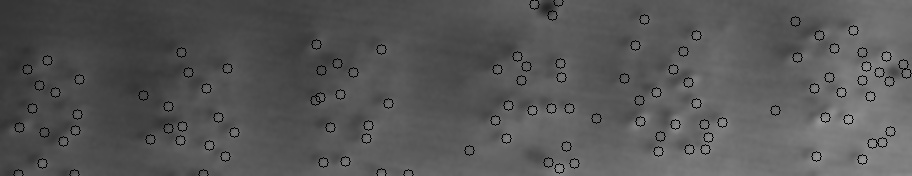
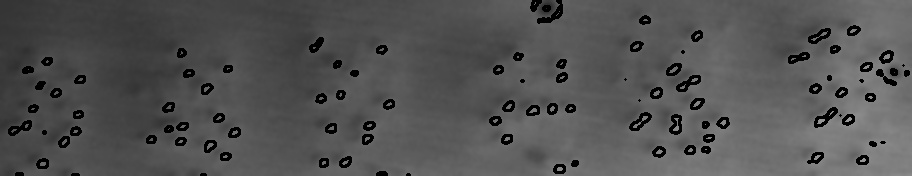
consolidated bump and crater defect logic into one file, test.py lol

diff --git a/project1/test.py b/project1/test.py
@@ -9,7 +9,6 @@ import numpy as np
 import matplotlib.pyplot as plt
 import time
 
-from crater import crater_centroids
 
 # load image into grayscale form
 img = 'defects.png'
@@ -24,19 +23,36 @@ gray_enhanced = clahe.apply(gray)
 blurred = cv2.GaussianBlur(gray_enhanced, (7, 7), 0)
 
 
+''' LIGHT AREA BUMP DEFECTS '''
 # playing around with these values to tune results
-C = -6
+C = -5
+BLOCK_SIZE = 27
+
+# binarize image
+bump_thresh = cv2.adaptiveThreshold(blurred, 255, cv2.ADAPTIVE_THRESH_GAUSSIAN_C, cv2.THRESH_BINARY, BLOCK_SIZE, C)
+
+# find contours
+bump_contours, _ = cv2.findContours(bump_thresh, cv2.RETR_EXTERNAL, cv2.CHAIN_APPROX_SIMPLE)
+# print(contours)
+
+
+''' DARK AREA CRATER DEFECTS '''
+# playing around with these values to tune results
+C = 16
 BLOCK_SIZE = 25
 
 # binarize image
-thresh = cv2.adaptiveThreshold(blurred, 255, cv2.ADAPTIVE_THRESH_GAUSSIAN_C, cv2.THRESH_BINARY, BLOCK_SIZE, C)
+crater_thresh = cv2.adaptiveThreshold(blurred, 255, cv2.ADAPTIVE_THRESH_GAUSSIAN_C, cv2.THRESH_BINARY_INV, BLOCK_SIZE, C)
 
 # find contours
-contours, _ = cv2.findContours(thresh, cv2.RETR_EXTERNAL, cv2.CHAIN_APPROX_SIMPLE)
+crater_contours, _ = cv2.findContours(crater_thresh, cv2.RETR_EXTERNAL, cv2.CHAIN_APPROX_SIMPLE)
 # print(contours)
+
 
 # record centroids of each defect
 centroids = []
+
+contours = bump_contours + crater_contours
 
 # plot defects on original image
 for contour in contours:
@@ -47,32 +63,32 @@ for contour in contours:
         cy = int(M['m01'] / M['m00'])
 
         # ignore large dark areas
-        if cy < 16 or cx > 887:
-            continue
+        # if cy < 16 or cx > 887:
+        #     continue
 
         centroids.append((cx, cy))
 
-        cv2.circle(blurred, (cx, cy), 5, (0, 255, 0), 2)
+        # cv2.circle(blurred, (cx, cy), 5, (0, 255, 0), 2)
         
-    # cv2.drawContours(blurred, [contour], -1, (0, 0, 255), 1)
+    cv2.drawContours(blurred, [contour], -1, (0, 0, 255), 2)
 
-for item in crater_centroids:
-    cx = item[0]
-    cy = item[1]
+# for item in crater_centroids:
+#     cx = item[0]
+#     cy = item[1]
 
-    cv2.circle(blurred, (cx, cy), 5, (0, 255, 0), 2)
+#     cv2.circle(blurred, (cx, cy), 5, (0, 255, 0), 2)
 
-centroids += crater_centroids
+# centroids += crater_centroids
     
 cv2.imwrite('defects_labeled_improved.jpg', blurred)
 
 cv2.imshow('GE', gray_enhanced)
 cv2.imshow('blurred', blurred)
-cv2.imshow('binary', thresh)
+# cv2.imshow('binary', thresh)
 # cv2.imshow('defects', image)
 
 # print defect count
-print(f'defect count = {len(centroids)}')
+print(f'defect count = {len(contours)}')
 
 
 

diff --git a/project1/crater.py b/project1/crater.py
@@ -7,9 +7,7 @@ Date:   8/5/2025
 import cv2
 import numpy as np
 import matplotlib.pyplot as plt
-import time
 
-from crater import crater_centroids
 
 # load image into grayscale form
 img = 'defects.png'
@@ -25,18 +23,18 @@ blurred = cv2.GaussianBlur(gray_enhanced, (7, 7), 0)
 
 
 # playing around with these values to tune results
-C = -6
+C = 16
 BLOCK_SIZE = 25
 
 # binarize image
-thresh = cv2.adaptiveThreshold(blurred, 255, cv2.ADAPTIVE_THRESH_GAUSSIAN_C, cv2.THRESH_BINARY, BLOCK_SIZE, C)
+thresh = cv2.adaptiveThreshold(blurred, 255, cv2.ADAPTIVE_THRESH_GAUSSIAN_C, cv2.THRESH_BINARY_INV, BLOCK_SIZE, C)
 
 # find contours
 contours, _ = cv2.findContours(thresh, cv2.RETR_EXTERNAL, cv2.CHAIN_APPROX_SIMPLE)
 # print(contours)
 
 # record centroids of each defect
-centroids = []
+crater_centroids = []
 
 # plot defects on original image
 for contour in contours:
@@ -46,33 +44,21 @@ for contour in contours:
         cx = int(M['m10'] / M['m00'])
         cy = int(M['m01'] / M['m00'])
 
-        # ignore large dark areas
-        if cy < 16 or cx > 887:
-            continue
+        crater_centroids.append((cx, cy))
 
-        centroids.append((cx, cy))
-
-        cv2.circle(blurred, (cx, cy), 5, (0, 255, 0), 2)
+        cv2.circle(blurred, (cx, cy), 5, (0, 255, 0), 1)
         
-    # cv2.drawContours(blurred, [contour], -1, (0, 0, 255), 1)
+    # cv2.drawContours(blurred, [contour], -1, (0, 0, 255), 3)
 
-for item in crater_centroids:
-    cx = item[0]
-    cy = item[1]
+# cv2.imwrite('defects_labeled_improved.jpg', blurred)
 
-    cv2.circle(blurred, (cx, cy), 5, (0, 255, 0), 2)
-
-centroids += crater_centroids
-    
-cv2.imwrite('defects_labeled_improved.jpg', blurred)
-
-cv2.imshow('GE', gray_enhanced)
-cv2.imshow('blurred', blurred)
-cv2.imshow('binary', thresh)
+# cv2.imshow('GE', gray_enhanced)
+# cv2.imshow('blurred', blurred)
+# cv2.imshow('binary', thresh)
 # cv2.imshow('defects', image)
 
 # print defect count
-print(f'defect count = {len(centroids)}')
+# print(f'defect count = {len(crater_centroids)}')
 
 
 
